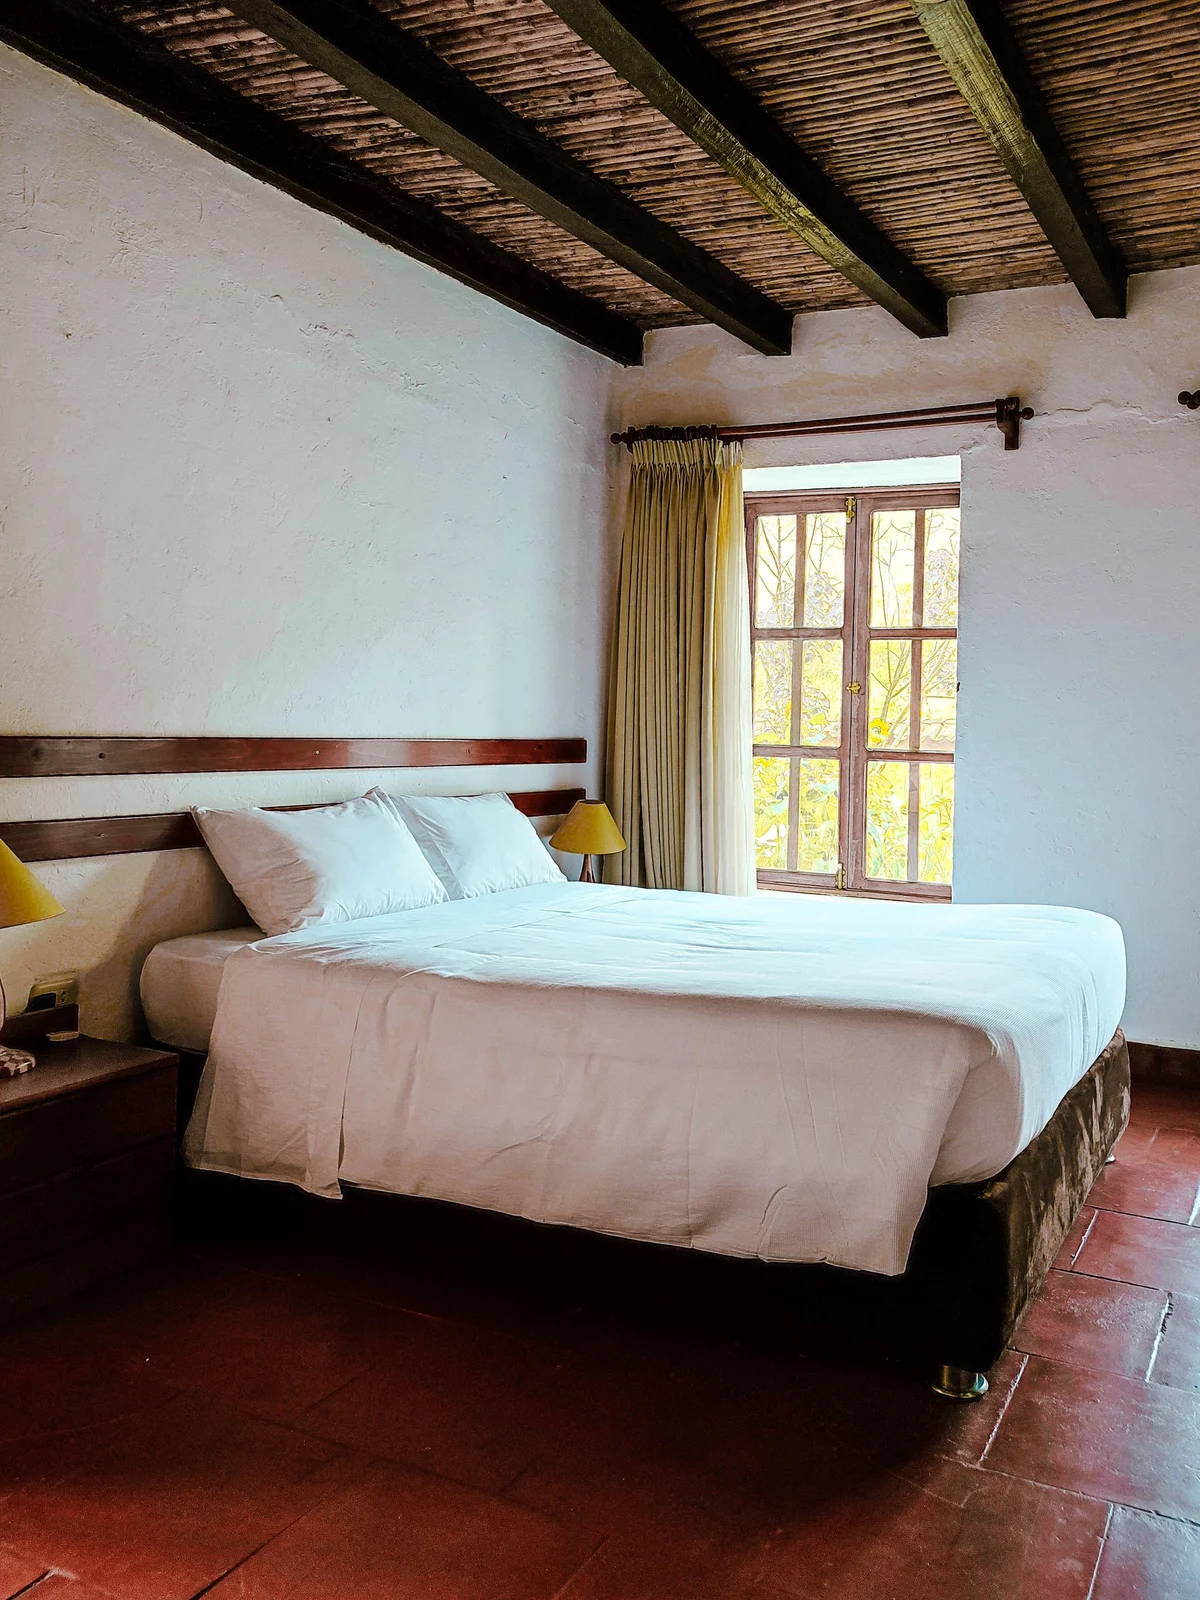
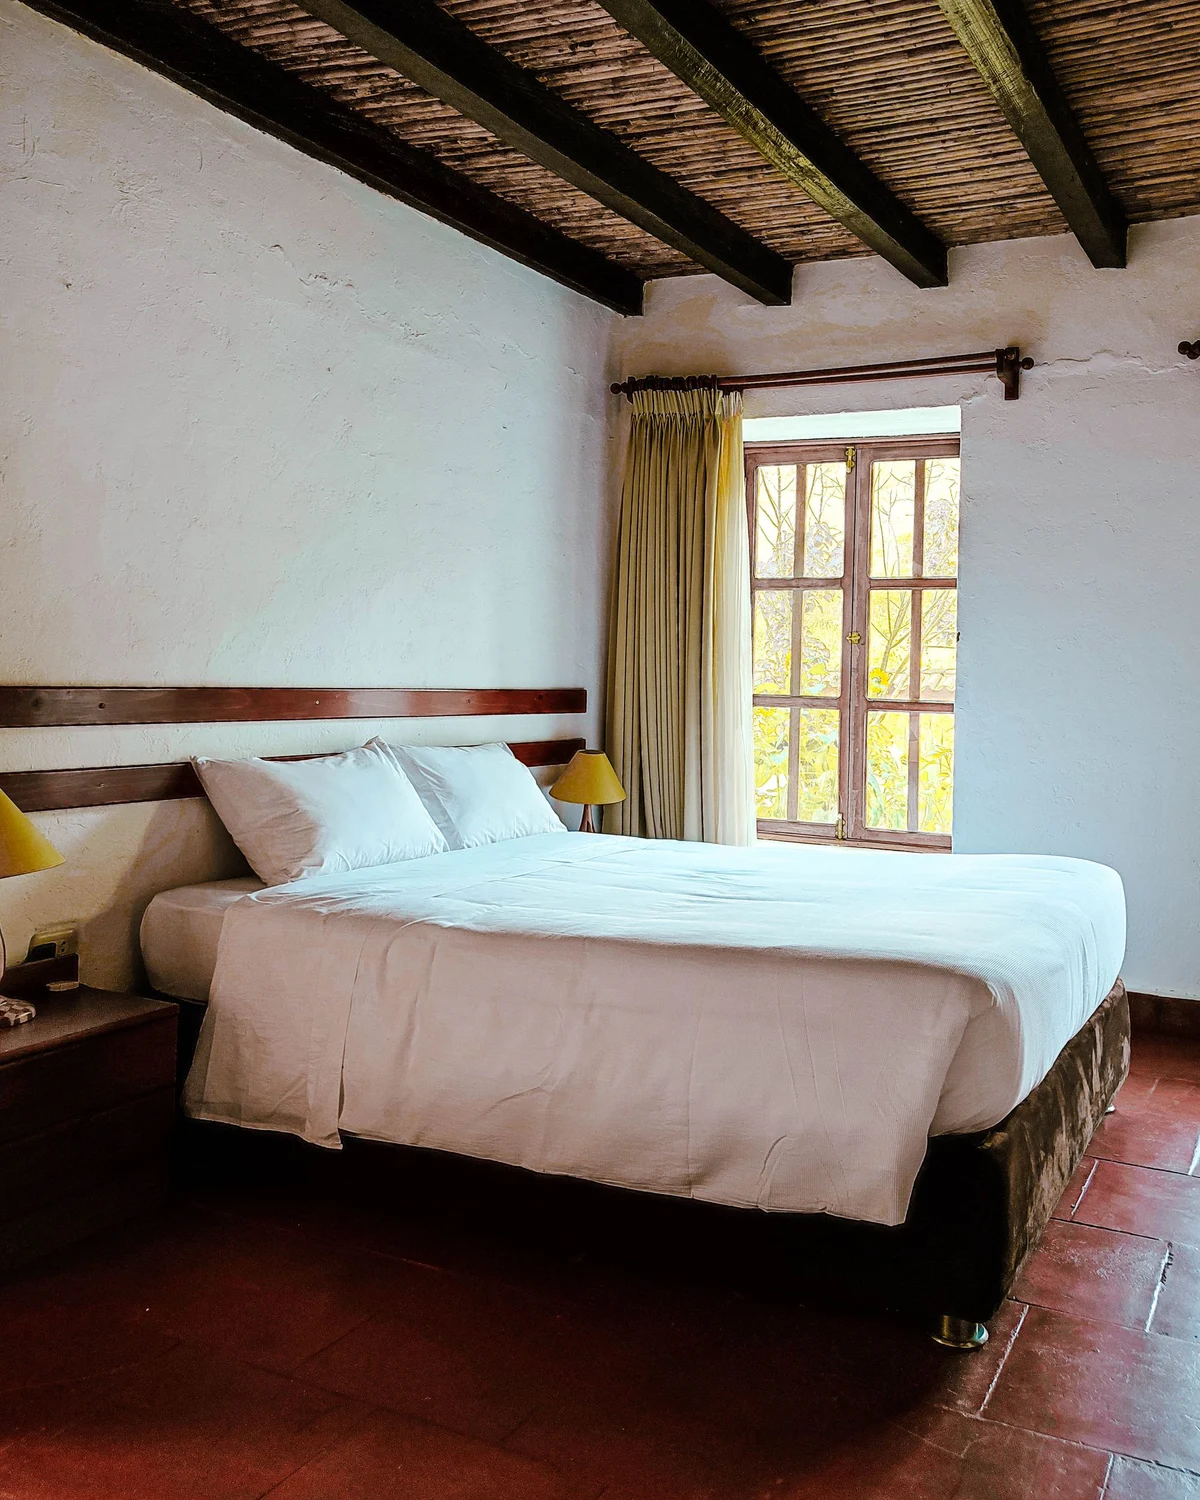
feat(rooms): adopt 4:5 vertical ratio and modern bento mosaic layout for room cards

diff --git a/app/animations.css b/app/animations.css
@@ -327,7 +327,7 @@ select:focus-visible,
   position: relative;
   display: block;
   overflow: hidden;
-  aspect-ratio: 3 / 4;
+  aspect-ratio: 4 / 5;
   background: var(--color-bg-secondary, #f0ebe3);
 }
 
@@ -754,97 +754,177 @@ select:focus-visible,
   }
 }
 
-/* ── Reservar page ── */
+/* ── Reservar page Bento Mosaic ── */
 
-.reservar-rooms-grid {
+.reservar-rooms-bento {
   display: grid;
-  grid-template-columns: repeat(auto-fill, minmax(220px, 1fr));
-  gap: var(--space-lg, 24px);
-  margin-top: var(--space-xl, 32px);
+  grid-template-columns: repeat(12, 1fr);
+  gap: 20px;
+  margin-top: 32px;
 }
 
-.reservar-room-card {
+.reservar-bento-card {
+  position: relative;
   background: var(--color-bg-card, #ffffff);
   border: 1px solid var(--color-border, rgba(0, 0, 0, 0.08));
-  border-radius: var(--radius-md, 12px);
+  border-radius: 16px;
   overflow: hidden;
-  box-shadow: var(--shadow-sm, 0 1px 3px rgba(0, 0, 0, 0.04));
-  transition-property: transform, box-shadow, border-color, background-color;
-  transition-duration: var(--duration-normal, 0.35s);
-  transition-timing-function: var(--ease-out, cubic-bezier(0.16, 1, 0.3, 1));
+  box-shadow: 0 4px 16px rgba(0, 0, 0, 0.04);
+  display: flex;
+  flex-direction: column;
+  text-decoration: none;
+  grid-column: span 4;
+  transition: transform 0.35s cubic-bezier(0.16, 1, 0.3, 1), box-shadow 0.35s ease, border-color 0.35s ease;
 }
 
-.reservar-room-card:hover {
-  transform: translateY(-4px);
-  box-shadow: var(--shadow-lg, 0 12px 32px rgba(0, 0, 0, 0.08));
-  border-color: rgba(201, 169, 110, 0.25);
+.reservar-bento-card:hover {
+  transform: translateY(-6px);
+  box-shadow: 0 16px 36px rgba(43, 61, 48, 0.12);
+  border-color: rgba(201, 169, 110, 0.4);
 }
 
-.reservar-room-img-wrap {
+/* Bento featured hero card (Cuádruple King) */
+.reservar-bento-card.reservar-bento-featured {
+  grid-column: span 8;
+  display: grid;
+  grid-template-columns: 1.25fr 1fr;
+}
+
+.reservar-bento-card.reservar-bento-featured .reservar-bento-media {
+  aspect-ratio: auto;
+  height: 100%;
+  min-height: 280px;
+}
+
+.reservar-bento-card.reservar-bento-featured .reservar-bento-content {
+  display: flex;
+  flex-direction: column;
+  justify-content: center;
+  padding: 28px 24px;
+}
+
+.reservar-bento-media {
   position: relative;
-  aspect-ratio: 16 / 10;
+  width: 100%;
+  aspect-ratio: 4 / 5;
   overflow: hidden;
-  background: var(--color-bg-secondary, #f0ebe3);
+  background: #ede7dc;
 }
 
-.reservar-room-img {
+.reservar-bento-img {
   width: 100%;
   height: 100%;
   object-fit: cover;
   display: block;
-  transition: transform var(--duration-slow, 0.5s) var(--ease-out, cubic-bezier(0.16, 1, 0.3, 1));
+  transition: transform 0.6s cubic-bezier(0.16, 1, 0.3, 1);
 }
 
-.reservar-room-card:hover .reservar-room-img {
-  transform: scale(1.04);
+.reservar-bento-card:hover .reservar-bento-img {
+  transform: scale(1.05);
 }
 
-.reservar-room-price {
+.reservar-bento-badge {
   position: absolute;
-  right: 12px;
-  bottom: 12px;
-  display: inline-flex;
-  align-items: baseline;
-  gap: 4px;
-  padding: 8px 14px;
-  background: rgba(26, 26, 26, 0.82);
-  -webkit-backdrop-filter: blur(12px);
-  backdrop-filter: blur(12px);
-  border-radius: var(--radius-full, 9999px);
+  top: 14px;
+  left: 14px;
+  background: linear-gradient(135deg, #c9a96e, #b8944f);
   color: #ffffff;
   font-family: var(--font-body, "Inter", sans-serif);
-  font-size: 13px;
-}
-
-.reservar-price-amount {
-  font-weight: 700;
-  font-size: 15px;
-}
-
-.reservar-price-period {
   font-size: 11px;
-  opacity: 0.85;
+  font-weight: 700;
+  letter-spacing: 0.08em;
+  text-transform: uppercase;
+  padding: 5px 12px;
+  border-radius: 9999px;
+  box-shadow: 0 4px 12px rgba(0, 0, 0, 0.18);
+  z-index: 2;
 }
 
-.reservar-room-body {
-  padding: 16px 18px 18px;
-}
-
-.reservar-room-name {
-  margin: 0 0 6px;
-  color: var(--color-text-primary, #1a1a1a);
-  font-family: var(--font-heading, "Gilda Display", serif);
-  font-size: clamp(1rem, 1.5vw + 0.25rem, 1.125rem);
-  font-weight: 500;
-  line-height: 1.25;
-}
-
-.reservar-room-facts {
+.reservar-bento-content {
+  padding: 18px 20px 22px;
   display: flex;
-  gap: 10px;
-  font-family: var(--font-body, "Inter", sans-serif);
-  font-size: clamp(0.75rem, 0.5vw + 0.375rem, 0.8125rem);
-  color: var(--color-text-muted, #8a8a8a);
+  flex-direction: column;
+  flex-grow: 1;
+}
+
+.reservar-bento-meta {
+  display: flex;
+  align-items: center;
+  margin-bottom: 8px;
+}
+
+.reservar-bento-capacity {
+  font-size: 12px;
+  font-weight: 600;
+  color: #6a7c6f;
+  text-transform: uppercase;
+  letter-spacing: 0.05em;
+}
+
+.reservar-bento-desc {
+  margin: 6px 0 14px;
+  color: var(--color-text-secondary, #5a5a5a);
+  font-size: 13.5px;
+  line-height: 1.55;
+  display: -webkit-box;
+  -webkit-line-clamp: 2;
+  -webkit-box-orient: vertical;
+  overflow: hidden;
+}
+
+.reservar-bento-cta {
+  margin-top: auto;
+  font-size: 13px;
+  font-weight: 700;
+  color: var(--primary-color, #415f44);
+  display: inline-flex;
+  align-items: center;
+  gap: 4px;
+  transition: gap 0.2s ease, color 0.2s ease;
+}
+
+.reservar-bento-card:hover .reservar-bento-cta {
+  gap: 8px;
+  color: #263828;
+}
+
+@media (max-width: 991px) {
+  .reservar-rooms-bento {
+    grid-template-columns: repeat(2, 1fr);
+    gap: 16px;
+  }
+
+  .reservar-bento-card {
+    grid-column: span 1 !important;
+  }
+
+  .reservar-bento-card.reservar-bento-featured {
+    grid-column: span 2 !important;
+  }
+}
+
+@media (max-width: 600px) {
+  .reservar-rooms-bento {
+    grid-template-columns: 1fr;
+    gap: 16px;
+  }
+
+  .reservar-bento-card,
+  .reservar-bento-card.reservar-bento-featured {
+    grid-column: span 1 !important;
+    display: flex !important;
+    flex-direction: column !important;
+  }
+
+  .reservar-bento-card.reservar-bento-featured .reservar-bento-media {
+    aspect-ratio: 4 / 5 !important;
+    height: auto !important;
+    min-height: 0 !important;
+  }
+
+  .reservar-bento-card.reservar-bento-featured .reservar-bento-content {
+    padding: 16px 18px 20px !important;
+  }
 }
 
 .reservar-booking-section-full {

diff --git a/app/reservar/page.tsx b/app/reservar/page.tsx
@@ -56,29 +56,48 @@ export default async function ReservarPage() {
                   <p>Cada habitación ofrece comodidad, privacidad y vistas únicas a la naturaleza de Chachapoyas.</p>
                 </div>
               </div>
-              <div className="reservar-rooms-grid">
-                {rooms.map((room) => (
-                  <Link key={room.id} href={`/rooms/${room.slug}`} className="reservar-room-card">
-                    <div className="reservar-room-img-wrap">
-                      <img
-                        src={room.mainImage}
-                        alt={room.name}
-                        className="reservar-room-img"
-                        loading="lazy"
-                      />
-                      <div className="reservar-room-price">
-                        <span className="reservar-price-amount">S/. {room.price}</span>
-                        <span className="reservar-price-period">/ noche</span>
+              <div className="reservar-rooms-bento">
+                {rooms.map((room, index) => {
+                  const isFeatured = index === 0;
+                  return (
+                    <Link
+                      key={room.id}
+                      href={`/rooms/${room.slug}`}
+                      className={`reservar-bento-card ${isFeatured ? "reservar-bento-featured" : ""}`}
+                    >
+                      <div className="reservar-bento-media">
+                        <img
+                          src={room.mainImage}
+                          alt={room.name}
+                          className="reservar-bento-img"
+                          loading="lazy"
+                        />
+                        <div className="reservar-bento-overlay" />
+                        <div className="reservar-room-price">
+                          <span className="reservar-price-amount">S/. {room.price}</span>
+                          <span className="reservar-price-period">/ noche</span>
+                        </div>
+                        {isFeatured && (
+                          <span className="reservar-bento-badge">Recomendada</span>
+                        )}
                       </div>
-                    </div>
-                    <div className="reservar-room-body">
-                      <h3 className="reservar-room-name">{room.name}</h3>
-                      <div className="reservar-room-facts">
-                        <span>{room.capacity} personas</span>
+                      <div className="reservar-bento-content">
+                        <div className="reservar-bento-meta">
+                          <span className="reservar-bento-capacity">
+                            👥 {room.capacity} personas
+                          </span>
+                        </div>
+                        <h3 className="reservar-room-name">{room.name}</h3>
+                        <p className="reservar-bento-desc">
+                          {room.description ? room.description.substring(0, 90) + "..." : ""}
+                        </p>
+                        <span className="reservar-bento-cta">
+                          Ver detalles y fotos →
+                        </span>
                       </div>
-                    </div>
-                  </Link>
-                ))}
+                    </Link>
+                  );
+                })}
               </div>
             </div>
           </section>

diff --git a/components/HomeRoomsShowcase.tsx b/components/HomeRoomsShowcase.tsx
@@ -135,7 +135,7 @@ export default function HomeRoomsShowcase({ rooms = fallbackRooms }: { rooms?: R
         .room-media {
           position: relative;
           width: 100%;
-          aspect-ratio: 3 / 4;
+          aspect-ratio: 4 / 5;
           overflow: hidden;
           background: #e6dfd5;
         }
